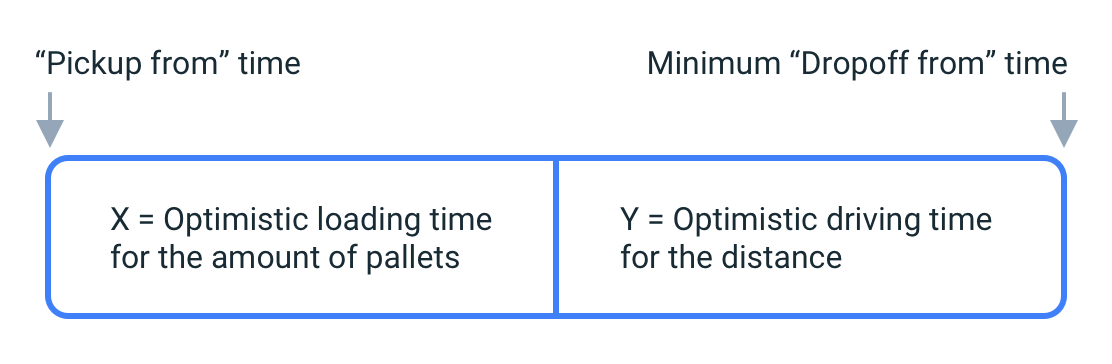
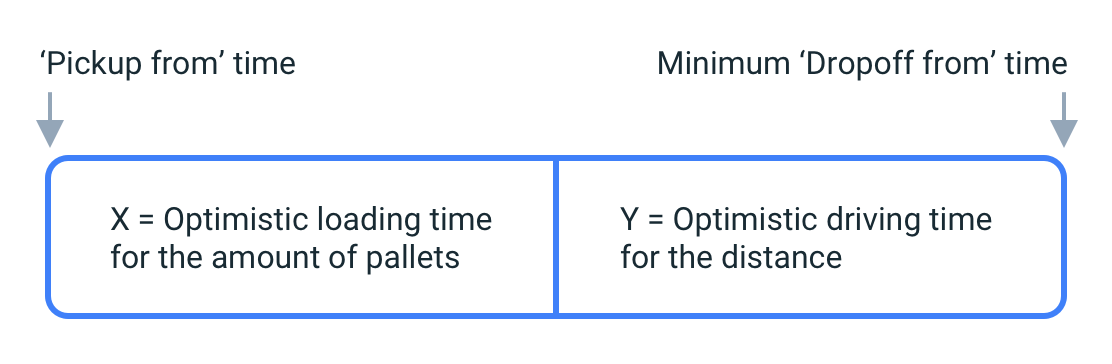
updates tricky times images

Changed region(s): [[0.5809, 0.1209, 0.8867, 0.2115], [0.1835, 0.1511, 0.2752, 0.2115], [0.0612, 0.1511, 0.1223, 0.2115]]

diff --git a/ontruck-tricky-times-case-study.html b/ontruck-tricky-times-case-study.html
@@ -97,10 +97,10 @@
   When we originally designed the shipment booking flow, we decided to keep validation as simple as possible. These were the only validation rules that applied initially:
 </p>
 <ul>
-  <li>"Pickup to" can't be earlier than "Pickup from"</li>
-  <li>"Dropoff to" can't be earlier than "Dropoff from"</li>
-  <li>"Dropoff from" can't be earlier than "Pickup from"</li>
-  <li>"Dropoff to" can't be earlier than "Pickup to"</li>
+  <li>'Pickup to' can't be earlier than 'Pickup from'</li>
+  <li>'Dropoff to' can't be earlier than 'Dropoff from'</li>
+  <li>'Dropoff from' can't be earlier than 'Pickup from'</li>
+  <li>'Dropoff to' can't be earlier than 'Pickup to'</li>
 </ul>
 
 <p>
@@ -165,7 +165,7 @@ A few months after the alert system had been deployed, the impossible and tricky
 <h2>Solving the impossible times problem</h2>
 
 <p>
-Out of the two problems, this was the easy one, so I decided to tackle it first. As mentioned above, the only validation rule that affected the "Dropoff from" input was this one: "Dropoff from" can't be earlier than "Pickup from". This wasn't a problem if the time windows were big enough. For example, considering the driving time between Getafe and Toledo is around 45 min, these times were tricky, but not impossible:
+Out of the two problems, this was the easy one, so I decided to tackle it first. As mentioned above, the only validation rule that affected the 'Dropoff from' input was this one: 'Dropoff from' can't be earlier than 'Pickup from'. This wasn't a problem if the time windows were big enough. For example, considering the driving time between Getafe and Toledo is around 45 min, these times were tricky, but not impossible:
 </p>
 
 <p>
@@ -173,7 +173,7 @@ Pickup in Getafe from 9:00 am to 11:00 am and Dropoff in Toledo from 9:00 to 11:
 </p>
 
 <p>
-The problem was when the difference between the "Pickup from" time and the "Dropoff to" time was shorter than the driving time. For example:
+The problem was when the difference between the 'Pickup from' time and the 'Dropoff to' time was shorter than the driving time. For example:
 </p>
 
 <p>
@@ -181,7 +181,7 @@ Pickup in Getafe from 9:30 am to 9:30 am and Dropoff in Toledo from 10:00 to 10:
 </p>
 
 <p>
-We knew the average loading time for a shipment depending on the amount of pallets. We also could calculate driving distances between two stops. With all that information we introduced a new validation rule: <strong>Minimum "Dropoff from" time = "Pickup from" time + X + Y</strong>, where X is the optimistic loading time for the amount of pallets in the shipment and Y the optimistic driving time for the distance between the stops.
+We knew the average loading time for a shipment depending on the amount of pallets. We also could calculate driving distances between two stops. With all that information we introduced a new validation rule: <strong>Minimum 'Dropoff from' time = 'Pickup from' time + X + Y</strong>, where X is the optimistic loading time for the amount of pallets in the shipment and Y the optimistic driving time for the distance between the stops.
 </p>
 
 <p>
@@ -190,7 +190,7 @@ The reason why we used the optimistic driving times was because calculating driv
 
 <figure>
   <img src='img/posts/ontruck-tricky-times/impossible-times.png' alt='impossible times' />
-  <figcaption>Minimum "Dropoff from" time = "Pickup from" time + X + Y</figcaption>
+  <figcaption>Minimum 'Dropoff from' time = 'Pickup from' time + X + Y</figcaption>
 </figure>
 
 <p>
@@ -200,15 +200,15 @@ Today, drivers only make it late to one stop when the times are tight and the lo
 <h2>Solving the tricky times problem</h2>
 
 <p>
-After the solution for the impossible times problem was designed, I moved to the tricky times problem. I started by exploring the obvious solution, which was introducing new validation rules just like we just did for the impossible times problem, but I soon realized that they would have a negative impact on the user experience. We couldn't set a minimum "Dropoff to" time based on the "Dropoff from" time because because pickup/dropoff points often provided shippers specific appointment times. That means that a dropoff window of zero minutes was perfectly valid.
+After the solution for the impossible times problem was designed, I moved to the tricky times problem. I started by exploring the obvious solution, which was introducing new validation rules just like we just did for the impossible times problem, but I soon realized that they would have a negative impact on the user experience. We couldn't set a minimum 'Dropoff to' time based on the 'Dropoff from' time because because pickup/dropoff points often provided shippers specific appointment times. That means that a dropoff window of zero minutes was perfectly valid.
 </p>
 
 <p>
-The tricky times problem could only be detected after the user selected the "Dropoff to" time, which is the last of the four times in the booking flow and overriding times that the user had already typed didn't make any sense. Displaying a warning to the shipper when the problem was detected didn't sound like a good solution either, considering the times were actually doable.
+The tricky times problem could only be detected after the user selected the 'Dropoff to' time, which is the last of the four times in the booking flow and overriding times that the user had already typed didn't make any sense. Displaying a warning to the shipper when the problem was detected didn't sound like a good solution either, considering the times were actually doable.
 </p>
 
 <p>
-But what if instead of adding friction to the shippers we could just translate tricky times into non-tricky times? I started exploring this avenue, which led my to the final solution. Tricky times would happen whenever the time between the "Pickup to" and the "Dropoff to" was shorter than the loading time plus the driving time between the stops. By communicating the driver a different "Pickup from" time than the one requested by the shipper, we could solve the problem. Both the pickup and the dropoff would happen within the time window requested by the shipper, but we would avoid running late to the dropoff.
+But what if instead of adding friction to the shippers we could just translate tricky times into non-tricky times? I started exploring this avenue, which led my to the final solution. Tricky times would happen whenever the time between the 'Pickup to' and the 'Dropoff to' was shorter than the loading time plus the driving time between the stops. By communicating the driver a different 'Pickup from' time than the one requested by the shipper, we could solve the problem. Both the pickup and the dropoff would happen within the time window requested by the shipper, but we would avoid running late to the dropoff.
 </p>
 
 <figure>
